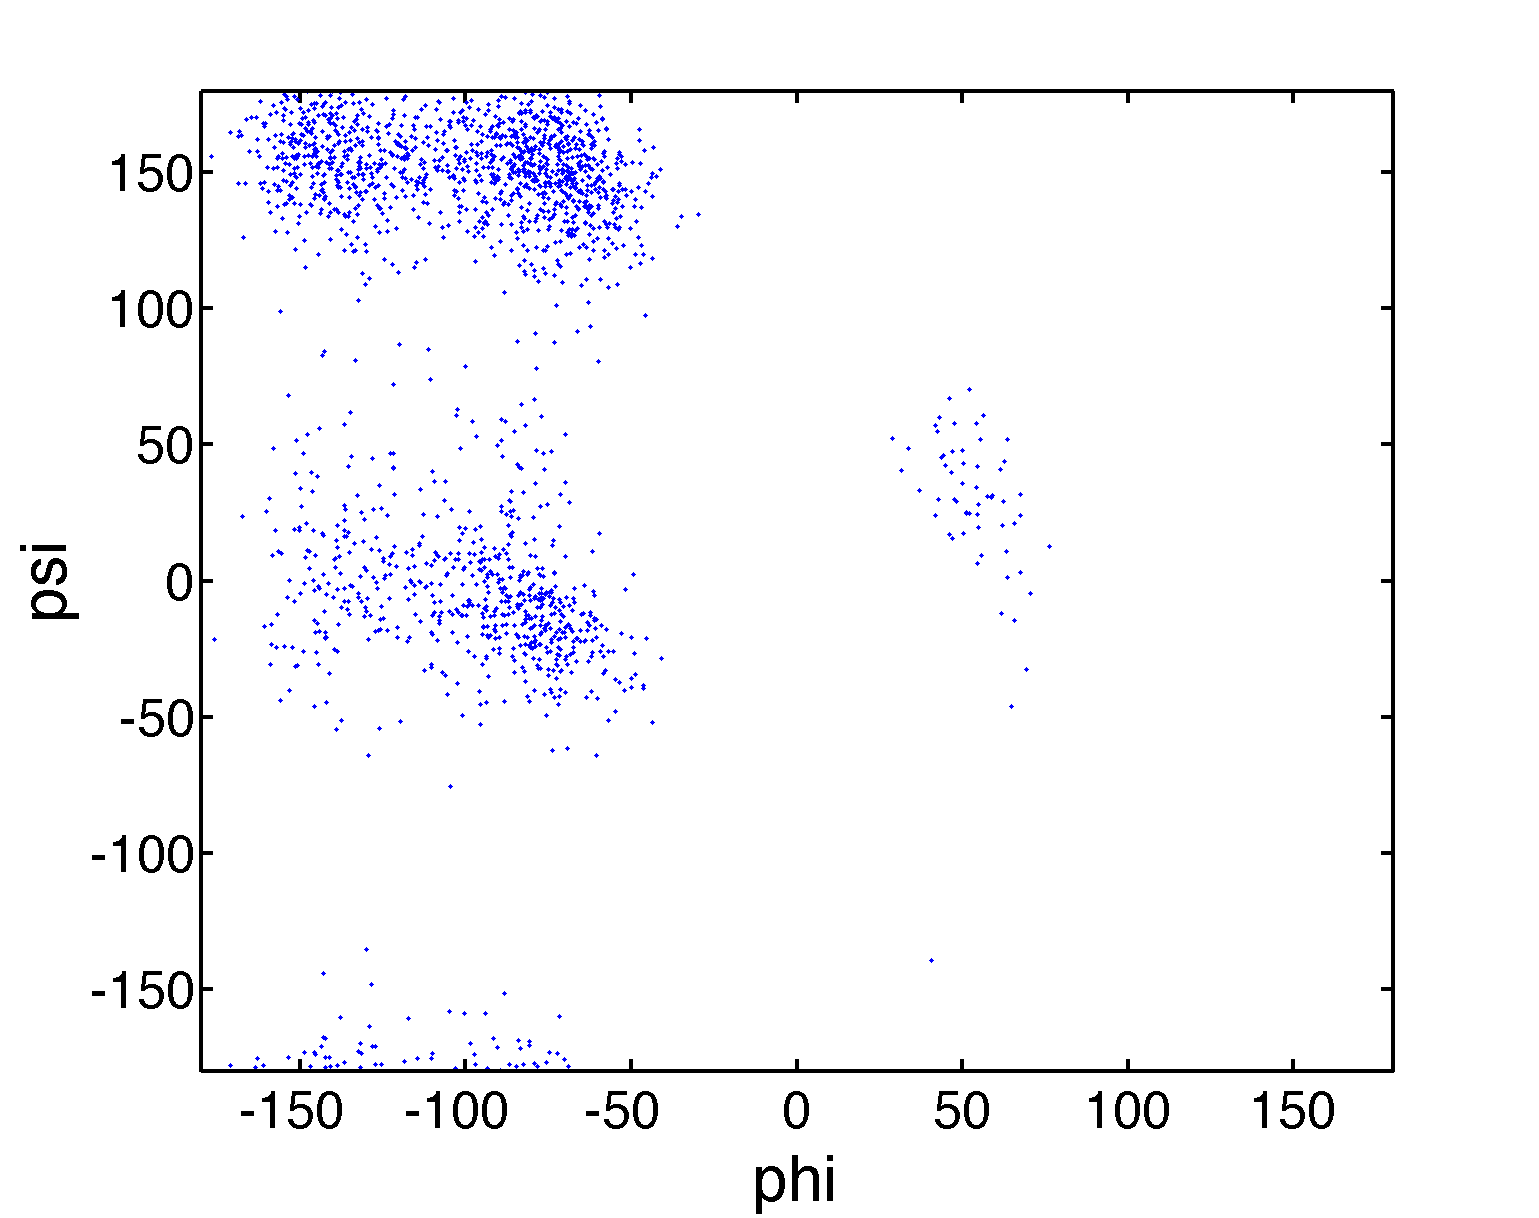
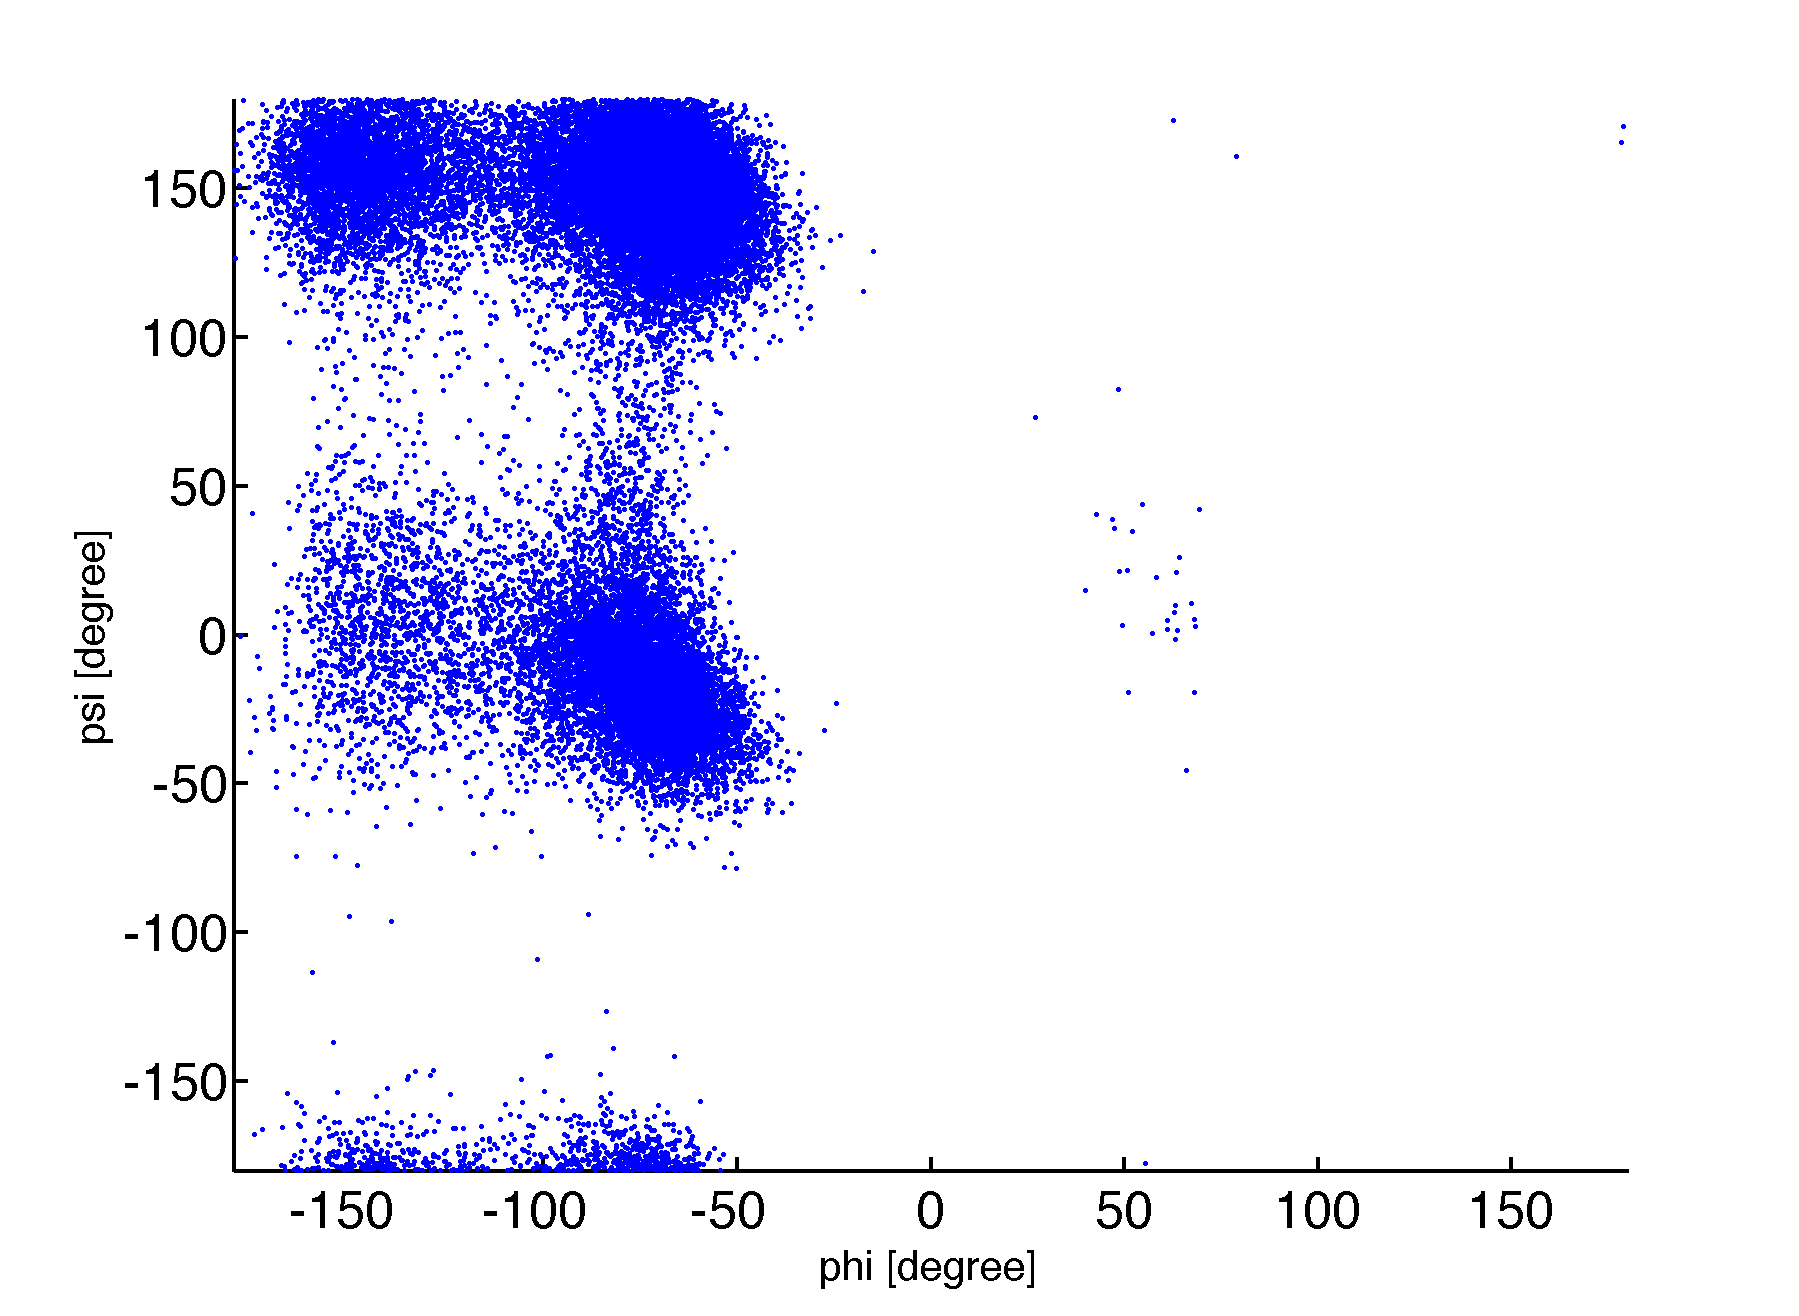
update pmf

diff --git a/pmf.rst b/pmf.rst
@@ -2,59 +2,65 @@
 .. highlight:: matlab
 
 ==============================================================
-Potential mean force (PMF) surface from scattered data
+Potential of mean force (PMF) from scattered data (``example/md_ala/pmf``)
 ==============================================================
 
-Here, we calculate the surface of potential of mean force (PMF) in a dihedral angle space. 
-Molecular dynamics trajectory of alanine-dipeptide with TIP3P waters is used for the demonstration. 
+Here, we calculate the surface of potential of mean force (PMF) in a 2-dimensional dihedral angle space. Molecular dynamics trajectory of alanine-dipeptide solvated in TIP3P waters is used for the demonstration. 
 
 First, we extract the dihedral angles from the trajectory: 
 ::
-
- % prepare index for dihedral angles
- index_phi = [5 7 9 15];
- index_psi = [7 9 15 17];
- index_phi3 = to3(index_phi);
- index_psi3 = to3(index_psi);
- 
- % read trajectory
- trj = readnetcdf('ala.nc', 1:22);
- 
- % calculate dihedral
- phi = calcdihedral(trj(:, index_phi3));
- psi = calcdihedral(trj(:, index_psi3));
- 
- % convert the unit from radian to dgree
- phi = phi.*180./pi;
- psi = psi.*180./pi;
+  
+  %% read data
+  trj = readnetcdf('../3_prod/run.nc');
+  
+  %% define atom indices for dihedral angles
+  index_phi = [5 7 9 15];
+  index_psi = [7 9 15 17];
+  
+  %% calculate dihedral angles
+  phi = calcdihedral(trj, index_phi);
+  psi = calcdihedral(trj, index_psi);
+  
+  %% convert the unit from radian to dgree
+  phi = phi.*180./pi;
+  psi = psi.*180./pi;
 
 Next, we estimate the probability density function (PDF)
-in the two-dimentional dihedral space from the scattered data (``phi`` and ``psi``).
+in the 2-dimentional dihedral space from the scattered data (``phi`` and ``psi``).
 This can be done by using the (bivariate) kernel density
-estimation (``kde2d.m``), and the PMF is defined as minus log of the
-PDF in the unit of KBT: 
+estimation (``kde2d.m``), and the PMF is defined as minus log of the PDF: 
 ::
 
- % scattered plot of the dihedral angles
- scatter(phi, psi, '.')
- axis xy;
- axis([-180 180 -180 180]);
- formatplot
- xlabel('phi', 'FontSize', 30, 'FontName', 'Helvetica'); 
- ylabel('psi', 'FontSize', 30, 'FontName', 'Helvetica');
- exportas('scatter');
- 
- % calculate PMF and visualize the surface
- [z, xi, yi] = calcpmf2d([phi psi], 500); % calcpmf2d() calls kde2d()
- s = getconstants();                      % get Boltzmann constant in kcal/mol/K
- T = 300.0;                               % set temperature 
- z = s.KB*T*z;                            % convert unit from KBT to kcal/mol
- contour(xi, yi, z, 0:0.25:6, 'LineWidth', 2);
- axis([-180 180 -180 180]); axis xy; colorbar
- formatplot2;
- xlabel('phi', 'FontSize', 30, 'FontName', 'Helvetica'); 
- ylabel('psi', 'FontSize', 30, 'FontName', 'Helvetica');
- exportas('pmf2d');
+  %% scattered plot of the dihedral angles
+  scatter(phi, psi, 5, 'filled');
+  axis([-180 180 -180 180]); axis xy;
+  formatplot2
+  xlabel('phi [degree]', 'FontSize', 20, 'FontName', 'Helvetica');
+  ylabel('psi [degree]', 'FontSize', 20, 'FontName', 'Helvetica');
+  exportas('scatter');
+  
+  %% calculate PMF and visualize the surface
+  [pmf, xi, yi] = calcpmf2d([phi psi], 500); % calcpmf2d() calls kde2d()
+  s   = getconstants();  % get Boltzmann constant in kcal/mol/K
+  T   = 300.0;           % set temperature
+  pmf = s.KB*T*pmf;        % convert unit from KBT to kcal/mol
+  
+  level_max = 6.0;
+  pmf2 = pmf;
+  pmf2(pmf2 > level_max) = NaN;
+  pcolor(xi, yi, pmf2);
+  shading flat;
+  colorbar;
+  axis([-180 180 -180 180]); axis xy;
+  formatplot2;
+  
+  hold on
+  contour(xi, yi, pmf2, 0:0.25:level_max, 'linecolor', 'black');
+  hold off
+  
+  xlabel('phi [degree]', 'FontSize', 20, 'FontName', 'Helvetica');
+  ylabel('psi [degree]', 'FontSize', 20, 'FontName', 'Helvetica');
+  exportas('pmf');
 
 .. image:: ./images/scatter.png
    :width: 70 %
